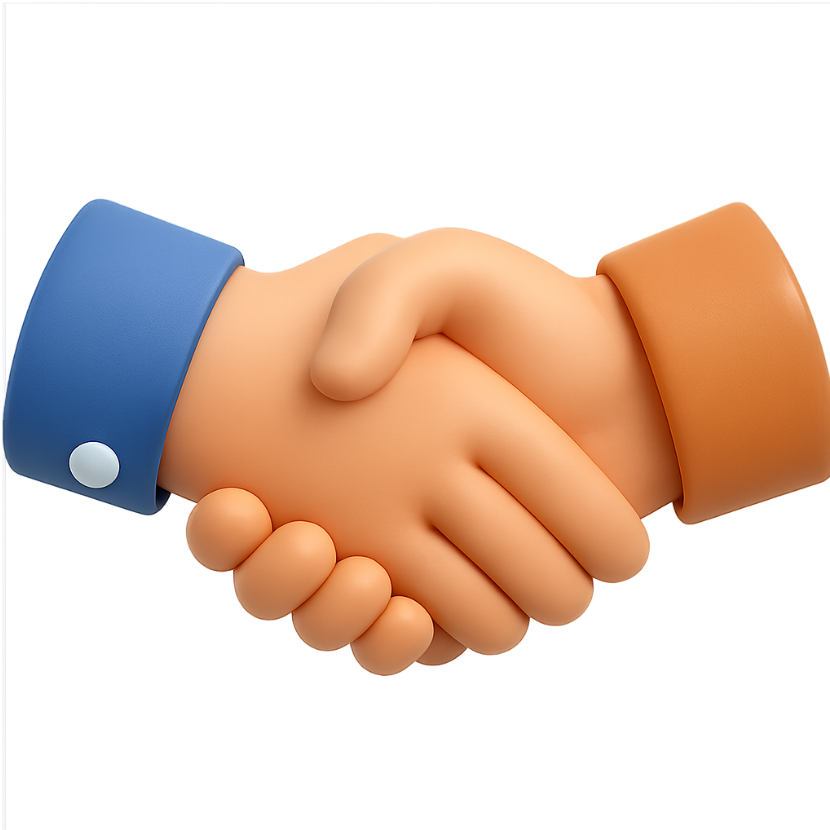
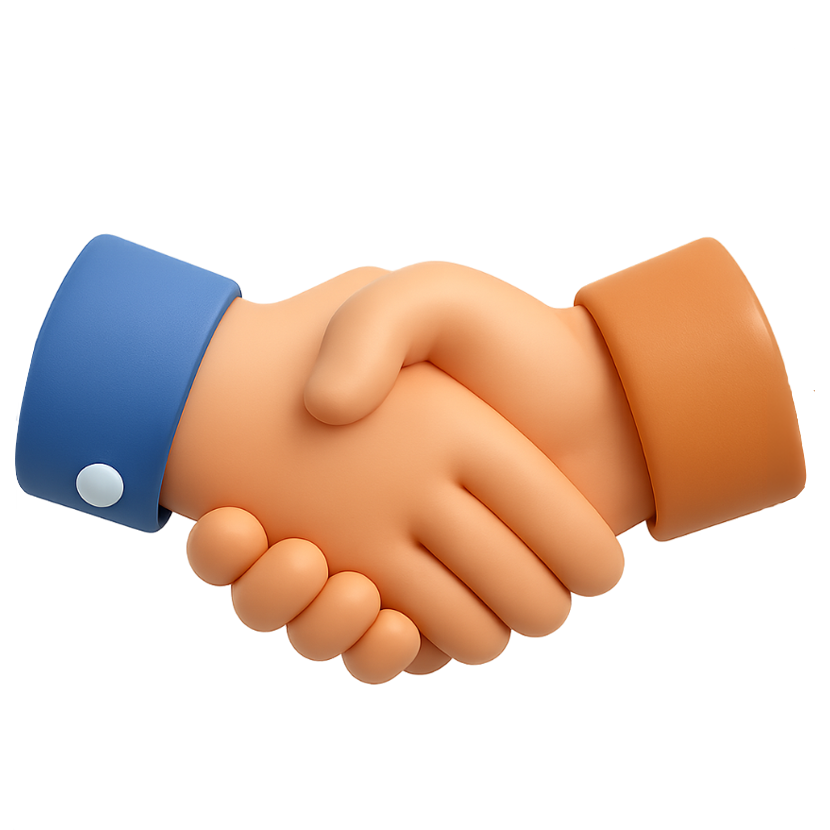
fix: adjust spacing for the disclaimer text in the hero section

Changed region(s): [[0.0, 0.241, 1.0, 0.8434]]

diff --git a/app/aboutHolland/page.tsx b/app/aboutHolland/page.tsx
@@ -335,13 +335,13 @@ export default function AboutHollandPage() {
 
         <Card className="max-w-md mx-auto p-6 shadow-lg border-0 bg-card/80 backdrop-blur-sm">
           <div className="space-y-4">
-            <div className="flex items-center justify-center space-x-4 space-x-reverse text-sm text-muted-foreground">
+            <div className="flex items-center justify-center gap-4 space-x-reverse text-sm text-muted-foreground">
               <div className="flex items-center">
-                <Shield className="w-4 h-4 mr-1" />
+                <Shield className="w-4 h-4 ml-1" />
                 <span>מאובטח</span>
               </div>
               <div className="flex items-center">
-                <Clock className="w-4 h-4 mr-1" />
+                <Clock className="w-4 h-4 mx-1" />
                 <span>10-15 דקות</span>
               </div>
             </div>
@@ -356,9 +356,7 @@ export default function AboutHollandPage() {
               </Button>
             </Link>
 
-            <p className="text-xs text-muted-foreground text-center mt-2">
-              ללא התחייבות • ביטול בכל עת
-            </p>
+            
           </div>
         </Card>
       </div>

diff --git a/components/homepage/hero-section.tsx b/components/homepage/hero-section.tsx
@@ -147,7 +147,7 @@ export function HeroSection() {
                 </Button>
               </Link>
 
-              <p className="text-xs text-muted-foreground text-center mt-2">
+              <p className="text-xs text-muted-foreground text-center mt-4">
                 ללא התחייבות • ביטול בכל עת
               </p>
             </div>